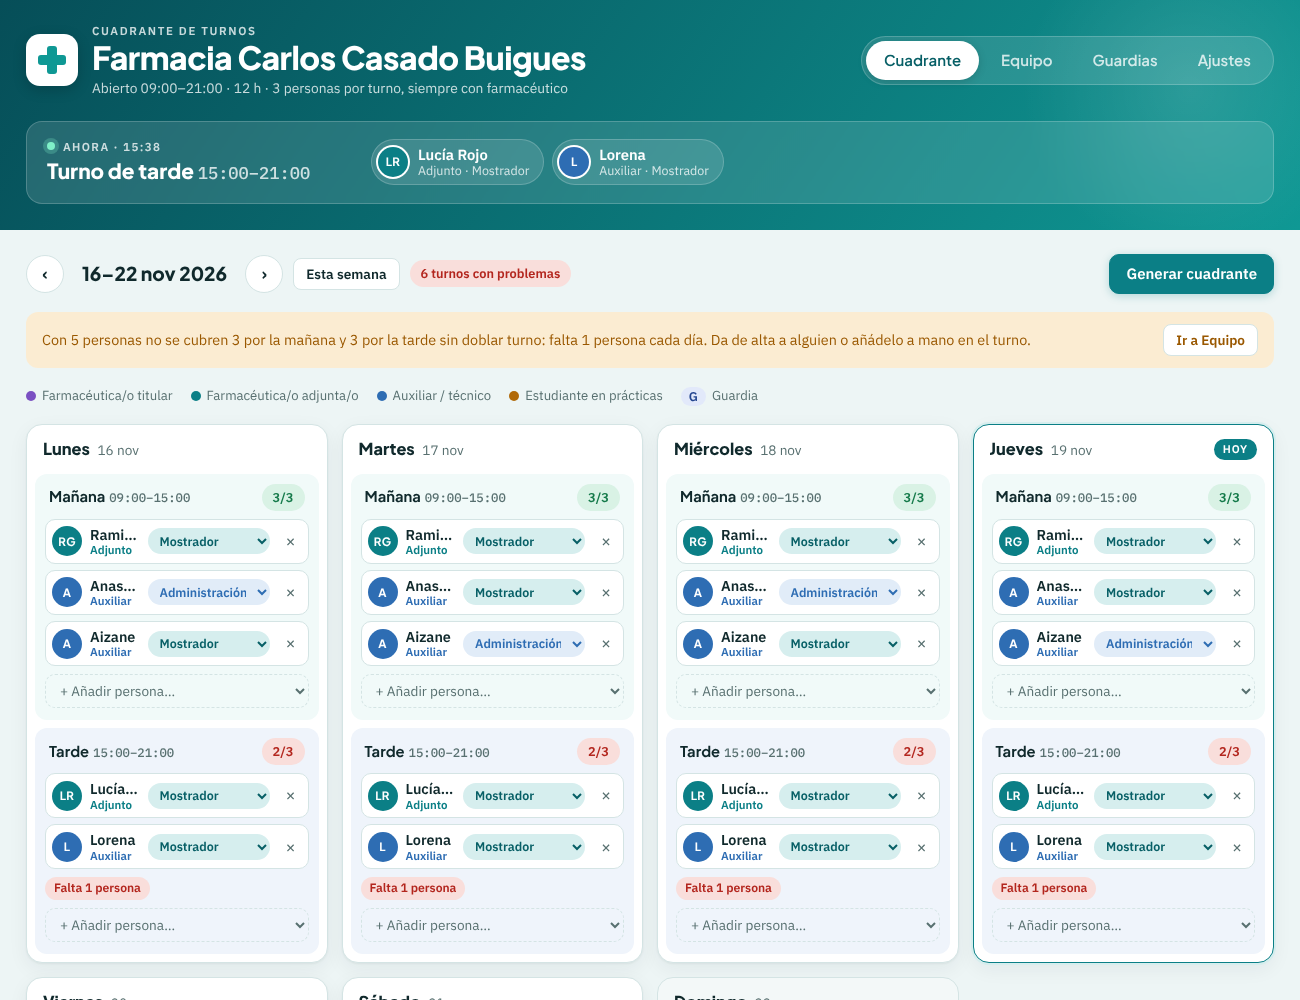
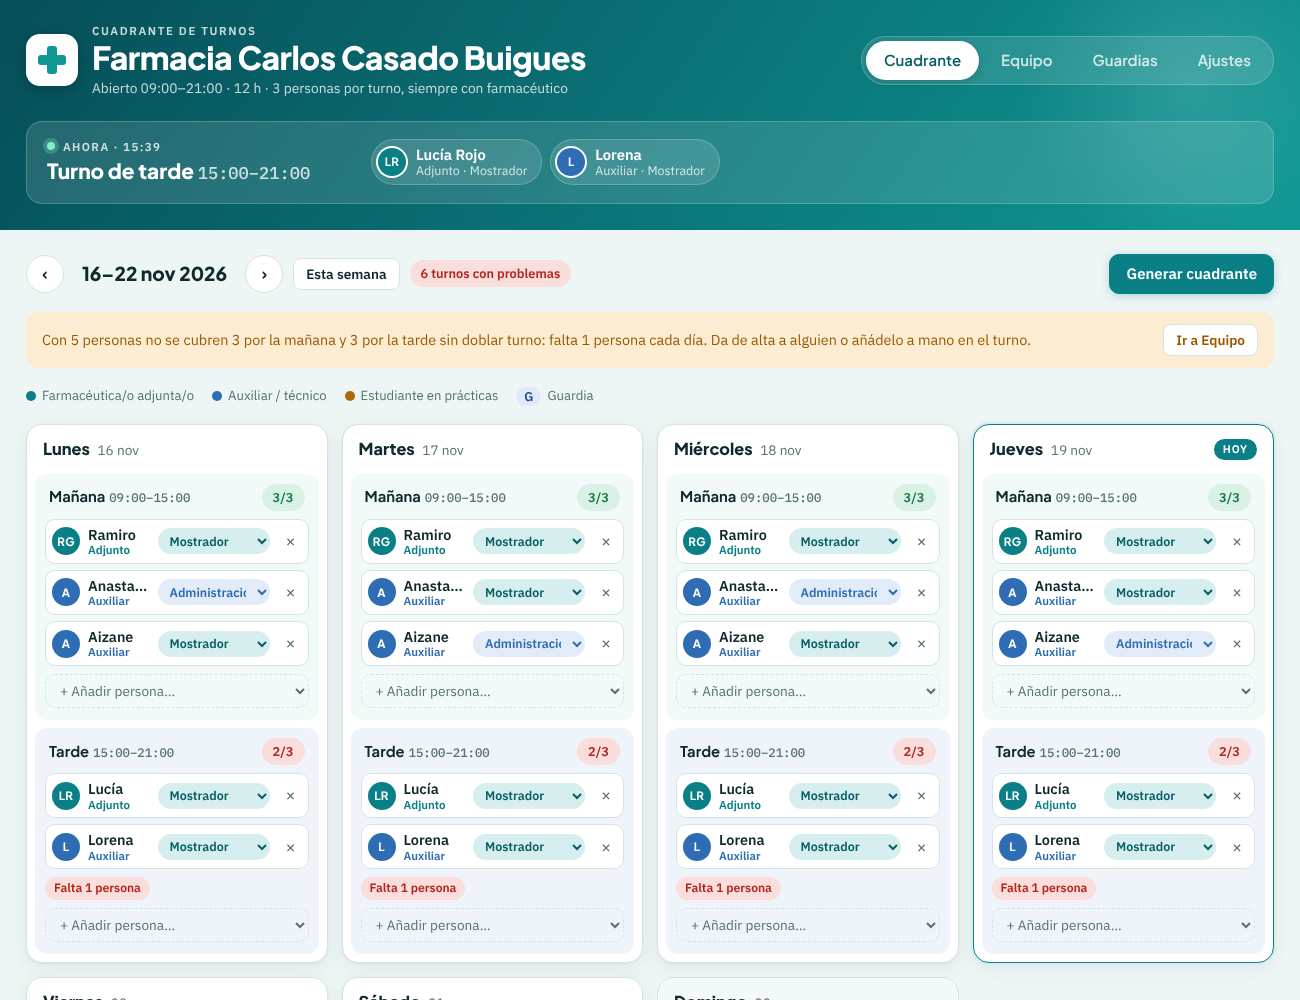
Ajusta nombres en las tarjetas del cuadrante
Claude-Session: https://claude.ai/code/session_011Z66q767hHW6Aak3WAVcnw

diff --git a/index.html b/index.html
@@ -125,7 +125,7 @@ button, select, input, textarea { font: inherit; color: inherit; }
 .role-adjunto { --c: var(--r-adj); --cs: var(--r-adj-soft); }
 .role-auxiliar { --c: var(--r-aux); --cs: var(--r-aux-soft); }
 .role-estudiante { --c: var(--r-est); --cs: var(--r-est-soft); }
-.av { width: 30px; height: 30px; border-radius: 50%; background: var(--c); color: var(--av-fg); display: inline-grid; place-items: center; font: 700 0.72rem/1 var(--f-display); flex: none; letter-spacing: 0.02em; }
+.av { width: 28px; height: 28px; border-radius: 50%; background: var(--c); color: var(--av-fg); display: inline-grid; place-items: center; font: 700 0.72rem/1 var(--f-display); flex: none; letter-spacing: 0.02em; }
 .who .av { box-shadow: 0 0 0 2px var(--on-hero); }
 .dot { width: 10px; height: 10px; border-radius: 50%; flex: none; background: var(--c); }
 .badge { display: inline-block; font-size: 0.7rem; font-weight: 600; letter-spacing: 0.05em; text-transform: uppercase; padding: 2px 8px; border-radius: 999px; background: var(--cs); color: var(--c); white-space: nowrap; }
@@ -183,7 +183,7 @@ button, select, input, textarea { font: inherit; color: inherit; }
 .pp .nm .r { font-size: 0.72rem; color: var(--c); font-weight: 600; }
 .pp.gone { opacity: 0.55; }
 .pp.gone .n { text-decoration: line-through; }
-select.resp { border: 0; border-radius: 999px; padding: 4px 8px; font-size: 0.78rem; font-weight: 600; width: 122px; cursor: pointer; background: var(--accent-soft); color: var(--accent-strong); }
+select.resp { border: 0; border-radius: 999px; padding: 4px 8px; font-size: 0.78rem; font-weight: 600; width: 112px; cursor: pointer; background: var(--accent-soft); color: var(--accent-strong); }
 select.resp[data-resp="admin"] { background: var(--r-aux-soft); color: var(--r-aux); }
 select.resp[data-resp="gestion"] { background: var(--r-tit-soft); color: var(--r-tit); }
 select.resp[data-resp="practicas"] { background: var(--r-est-soft); color: var(--r-est); }
@@ -522,7 +522,7 @@ textarea { font-family: var(--f-mono); font-size: 0.78rem; min-height: 140px; re
       '</div>' +
       shortBanner() +
       '<div class="legend">' +
-        Object.keys(ROLES).map(r => '<span class="role-' + r + '"><span class="dot"></span>' + ROLES[r].label + '</span>').join('') +
+        Object.keys(ROLES).filter(r => r === 'estudiante' || activeStaff().some(p => p.role === r)).map(r => '<span class="role-' + r + '"><span class="dot"></span>' + ROLES[r].label + '</span>').join('') +
         '<span><span class="pill guard" style="padding:0 8px">G</span> Guardia</span>' +
       '</div>' +
       '<div class="week">';
@@ -546,7 +546,7 @@ textarea { font-family: var(--f-mono); font-size: 0.78rem; min-height: 140px; re
           '<span class="pill ' + (ok ? 'ok' : 'err') + '" title="' + (ok ? 'Turno cubierto' : 'Turno incompleto') + '">' + list.filter(a => byId(a.id) && activeOn(byId(a.id), key) && byId(a.id).role !== 'estudiante').length + '/' + PER_SHIFT + '</span></div><ul>';
         list.forEach(a => {
           const p = byId(a.id); if (!p) return;
-          html += '<li class="pp role-' + p.role + (activeOn(p, key) ? '' : ' gone') + '">' + avatar(p) + '<span class="nm" title="' + esc(p.name + ' · ' + ROLES[p.role].label) + '"><span class="n">' + esc(shortName(p)) + '</span><span class="r">' + ROLES[p.role].short + '</span></span>' +
+          html += '<li class="pp role-' + p.role + (activeOn(p, key) ? '' : ' gone') + '">' + avatar(p) + '<span class="nm" title="' + esc(p.name + ' · ' + ROLES[p.role].label) + '"><span class="n">' + esc(p.name.trim().split(/\s+/)[0]) + '</span><span class="r">' + ROLES[p.role].short + '</span></span>' +
             '<select class="resp" data-resp="' + a.resp + '" data-act="resp" data-key="' + key + '" data-sh="' + sh + '" data-id="' + p.id + '" aria-label="Responsabilidad de ' + esc(p.name) + '">' +
             Object.keys(RESP).map(r => '<option value="' + r + '"' + (r === a.resp ? ' selected' : '') + '>' + RESP[r] + '</option>').join('') + '</select>' +
             '<button class="iconbtn" data-act="rm" data-key="' + key + '" data-sh="' + sh + '" data-id="' + p.id + '" aria-label="Quitar a ' + esc(p.name) + ' del turno">×</button></li>';
